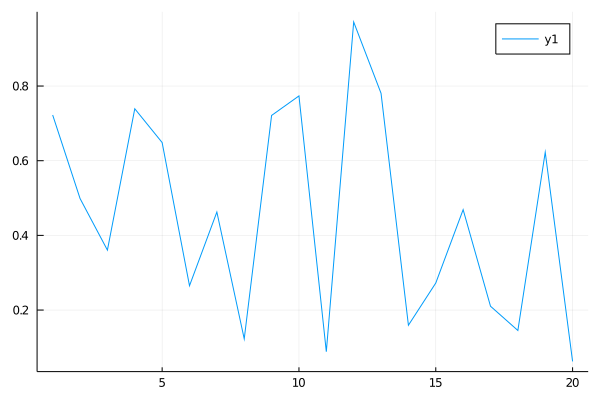
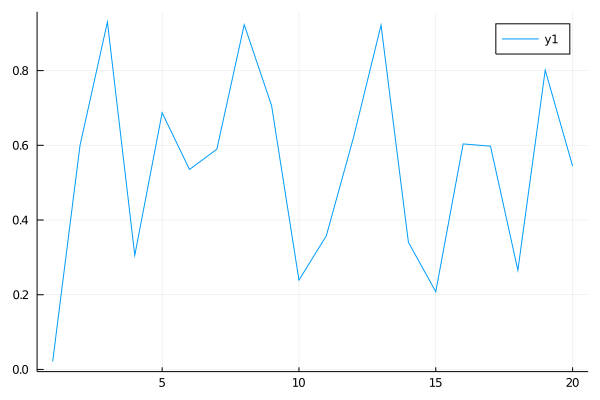
update imgs

diff --git a/posts/Dotto/D002-2021-04-28-coffee-market-in-paris/coffee-market-in-paris.html b/posts/Dotto/D002-2021-04-28-coffee-market-in-paris/coffee-market-in-paris.html
@@ -5,8 +5,8 @@
     <meta http-equiv="Content-Type" content="text/html; charset=utf-8" />
     <meta name="generator" content="pandoc" />
 
-
-
+    
+    
     <title>Coffee Market in Paris</title>
 
         <script src="coffee-market-in-paris_files/header-attrs-2.7.3/header-attrs.js"></script>
@@ -26,7 +26,7 @@
                code {color: inherit; background-color: rgba(0, 0, 0, 0.04);}
                pre:not([class]) { background-color: white }</style>
         <script src="coffee-market-in-paris_files/navigation-1.1/tabsets.js"></script>
-
+        
           <meta property="og:title" content="Coffee Market in Paris" />
           <meta property="og:type" content="article">
           <meta property="og:description" content="A short description of the Dotto.
@@ -35,16 +35,16 @@
           <meta property="og:locale" content="en_US">
           <meta property="og:site_name" content="Data Motto">
           <meta property="og:image" content="resources/images/default_dotto.jpg" />
-
-
+          
+        
           <meta property="twitter:card" content="summary_large_image">
           <meta property="twitter:title" content="Coffee Market in Paris">
           <meta property="twitter:description" content="A short description of the Dotto.
         ">
           <meta property="twitter:url" content="https://datamotto.com/posts/dotto/D002-2021-04-28-coffee-market-in-paris/">
           <meta property="twitter:image" content="resources/images/default_dotto.jpg">
-
-
+          
+    
 <!-- Global site tag (gtag.js) - Google Analytics -->
 <script async src="https://www.googletagmanager.com/gtag/js?id=G-WZMEMQM0Y2"></script>
 <script>
@@ -111,9 +111,8 @@ A short description of the Dotto.
 
 <div class="col-1 d-flex justify-content-center align-items-center">
 <button class="btn btn-outline-light btn-block header-like-btn" style="background-color:white" type="button">
-.
 <!-- LikeBtn.com BEGIN -->
-<span class="likebtn-wrapper" data-theme="nero" btn_size="36" data-f_size="8" data-icon_l_url="https://datamotto.com/assets/img/red-circle.svg" data-i18n_like="Like Dotto" data-white_label="true" data-identifier="3cec3bca-a81d-11eb-b8a7-acbc32baed85" data-addthis_service_codes="twitter, facebook, linkedin, gmail, email, slack, telegram" data-show_like_label="false" data-dislike_enabled="false" data-counter_frmt="comma" data-popup_html="I like the Dotto!" data-share_size="large" data-site_id="604e13966fd08bbf03672c5b" data-i18n_like_tooltip="Like Dotto"></span>
+<span class="likebtn-wrapper" data-theme="nero" data-i18n_like="Like Dotto" data-white_label="true" data-identifier="3cec3bca-a81d-11eb-b8a7-acbc32baed85" data-addthis_service_codes="twitter, facebook, linkedin, gmail, email, slack, telegram" data-show_like_label="false" data-dislike_enabled="false" data-counter_frmt="comma" data-popup_html="I like the Dotto!" data-share_size="large" data-site_id="604e13966fd08bbf03672c5b" data-i18n_like_tooltip="Like Dotto"></span>
 <script>(function(d,e,s){if(d.getElementById("likebtn_wjs"))return;a=d.createElement(e);m=d.getElementsByTagName(e)[0];a.async=1;a.id="likebtn_wjs";a.src=s;m.parentNode.insertBefore(a, m)})(document,"script","//w.likebtn.com/js/w/widget.js");</script>
 <!-- LikeBtn.com END -->
 </button>
@@ -247,7 +246,7 @@ class="btn dotto-main-dot-shape"
 <h1>&nbsp;Instructions:</h1>
 </div>
 <br>
-
+ 
 <div v-if="activeLang === 'r'" class="mx-2">
 <p class="mx-2">
 
@@ -255,10 +254,10 @@ class="btn dotto-main-dot-shape"
 
 </p>
 </div>
+ 
 
 
-
-
+ 
 <div v-if="activeLang === 'julia'" class="mx-2">
 <p class="mx-2">
 
@@ -266,7 +265,7 @@ class="btn dotto-main-dot-shape"
 
 </p>
 </div>
-
+ 
 
 
 </div>
@@ -277,16 +276,16 @@ class="btn dotto-main-dot-shape"
 <h1>&nbsp;Codes:</h1>
 </div>
 <br>
-
+ 
 <div v-if="activeLang === 'r'" class="mx-2">
 
 <div class="sourceCode" id="cb1"><pre class="sourceCode r dotto-dot-code"><code class="sourceCode r"><span id="cb1-1"><a href="#cb1-1" aria-hidden="true" tabindex="-1"></a><span class="fu">plot</span>(cars)</span></code></pre></div>
 
 </div>
+ 
 
 
-
-
+ 
 <div v-if="activeLang === 'julia'" class="mx-2">
 
 <div class="sourceCode" id="cb2"><pre class="sourceCode julia dotto-dot-code"><code class="sourceCode julia"><span id="cb2-1"><a href="#cb2-1" aria-hidden="true" tabindex="-1"></a><span class="kw">using</span> Plots</span>
@@ -294,7 +293,7 @@ class="btn dotto-main-dot-shape"
 <span id="cb2-3"><a href="#cb2-3" aria-hidden="true" tabindex="-1"></a>plot(x<span class="op">,</span> y)</span></code></pre></div>
 
 </div>
-
+ 
 
 
 </div>
@@ -304,33 +303,33 @@ class="btn dotto-main-dot-shape"
 <h1>&nbsp;Results:</h1>
 </div>
 <br>
-
+ 
 <div v-if="activeLang === 'r'" class="mx-2 dotto-dot-output">
 
 <p><img src="coffee-market-in-paris_files/figure-html/unnamed-chunk-5-1.png" width="672" style="display: block; margin: auto auto auto 0;" /></p>
 
 </div>
+ 
 
 
-
-
+ 
 <div v-if="activeLang === 'julia'" class="mx-2 dotto-dot-output">
 
 <pre><code>## 10-element Array{Float64,1}:
-##  0.34735739267355825
-##  0.9199404180021571
-##  0.30525447389137694
-##  0.15263891947688135
-##  0.194324729285285
-##  0.47259798388778385
-##  0.49808915844578405
-##  0.48691818330856695
-##  0.1178822929919714
-##  0.9383099522502727</code></pre>
+##  0.5003380651915503
+##  0.7288127976832843
+##  0.43128088896187977
+##  0.20498919626419765
+##  0.1113313960921547
+##  0.709110444949342
+##  0.32821448696066957
+##  0.37830434113912736
+##  0.2512998764807488
+##  0.11817342839340772</code></pre>
 <p><img src="coffee-market-in-paris_files/figure-html/unnamed-chunk-6-J1.png" width="300" style="display: block; margin: auto auto auto 0;" /></p>
 
 </div>
-
+ 
 </div>
 </div>
 </div>
@@ -343,7 +342,7 @@ class="btn dotto-main-dot-shape"
 <h1>&nbsp;Instructions:</h1>
 </div>
 <br>
-
+ 
 <div v-if="activeLang === 'r'" class="mx-2">
 <p class="mx-2">
 
@@ -351,10 +350,10 @@ class="btn dotto-main-dot-shape"
 
 </p>
 </div>
+ 
 
 
-
-
+ 
 <div v-if="activeLang === 'julia'" class="mx-2">
 <p class="mx-2">
 
@@ -362,7 +361,7 @@ class="btn dotto-main-dot-shape"
 
 </p>
 </div>
-
+ 
 
 
 </div>
@@ -373,16 +372,16 @@ class="btn dotto-main-dot-shape"
 <h1>&nbsp;Codes:</h1>
 </div>
 <br>
-
+ 
 <div v-if="activeLang === 'r'" class="mx-2">
 
 <div class="sourceCode" id="cb4"><pre class="sourceCode r dotto-dot-code"><code class="sourceCode r"><span id="cb4-1"><a href="#cb4-1" aria-hidden="true" tabindex="-1"></a>LETTERS[<span class="dv">1</span><span class="sc">:</span><span class="dv">20</span>]</span></code></pre></div>
 
 </div>
+ 
 
 
-
-
+ 
 <div v-if="activeLang === 'julia'" class="mx-2">
 
 <div class="sourceCode" id="cb5"><pre class="sourceCode julia dotto-dot-code"><code class="sourceCode julia"><span id="cb5-1"><a href="#cb5-1" aria-hidden="true" tabindex="-1"></a><span class="kw">using</span> Plots</span>
@@ -390,7 +389,7 @@ class="btn dotto-main-dot-shape"
 <span id="cb5-3"><a href="#cb5-3" aria-hidden="true" tabindex="-1"></a>plot(x<span class="op">,</span> y)</span></code></pre></div>
 
 </div>
-
+ 
 
 
 </div>
@@ -400,44 +399,44 @@ class="btn dotto-main-dot-shape"
 <h1>&nbsp;Results:</h1>
 </div>
 <br>
-
+ 
 <div v-if="activeLang === 'r'" class="mx-2 dotto-dot-output">
 
 <pre><code>##  [1] &quot;A&quot; &quot;B&quot; &quot;C&quot; &quot;D&quot; &quot;E&quot; &quot;F&quot; &quot;G&quot; &quot;H&quot; &quot;I&quot; &quot;J&quot; &quot;K&quot; &quot;L&quot;
 ## [13] &quot;M&quot; &quot;N&quot; &quot;O&quot; &quot;P&quot; &quot;Q&quot; &quot;R&quot; &quot;S&quot; &quot;T&quot;</code></pre>
 
 </div>
+ 
 
 
-
-
+ 
 <div v-if="activeLang === 'julia'" class="mx-2 dotto-dot-output">
 
 <pre><code>## 20-element Array{Float64,1}:
-##  0.7223830802319087
-##  0.49878800968837544
-##  0.36054669887565094
-##  0.739111564079233
-##  0.6486491407489576
-##  0.26508336544475886
-##  0.462553919660055
-##  0.12280724312576297
-##  0.721270889107376
-##  0.7735564160011144
-##  0.08841353732958956
-##  0.9715330301556595
-##  0.7804899958300384
-##  0.15936276480920752
-##  0.27245271493553536
-##  0.4688877825160207
-##  0.2102450988277067
-##  0.1452844186986384
-##  0.6227212081359745
-##  0.06239795299255291</code></pre>
+##  0.02145352181879079
+##  0.6001098071831346
+##  0.9301341800342604
+##  0.3056168023425878
+##  0.6870144659653159
+##  0.5354119059779254
+##  0.5895598714807724
+##  0.9228495205421319
+##  0.7061863704346942
+##  0.2391837868025415
+##  0.357792105947204
+##  0.6228840830873981
+##  0.9217153481313329
+##  0.3403637330148708
+##  0.20801083340275328
+##  0.6037319906002419
+##  0.5977100193247491
+##  0.2655629055298463
+##  0.8012664835879799
+##  0.5444490991468516</code></pre>
 <p><img src="coffee-market-in-paris_files/figure-html/unnamed-chunk-12-J1.png" width="300" style="display: block; margin: auto auto auto 0;" /></p>
 
 </div>
-
+ 
 </div>
 </div>
 </div>
